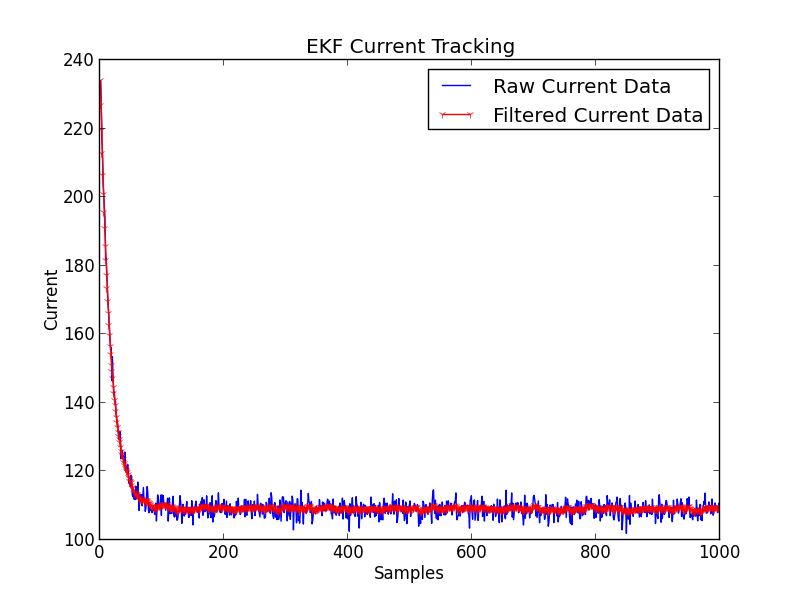
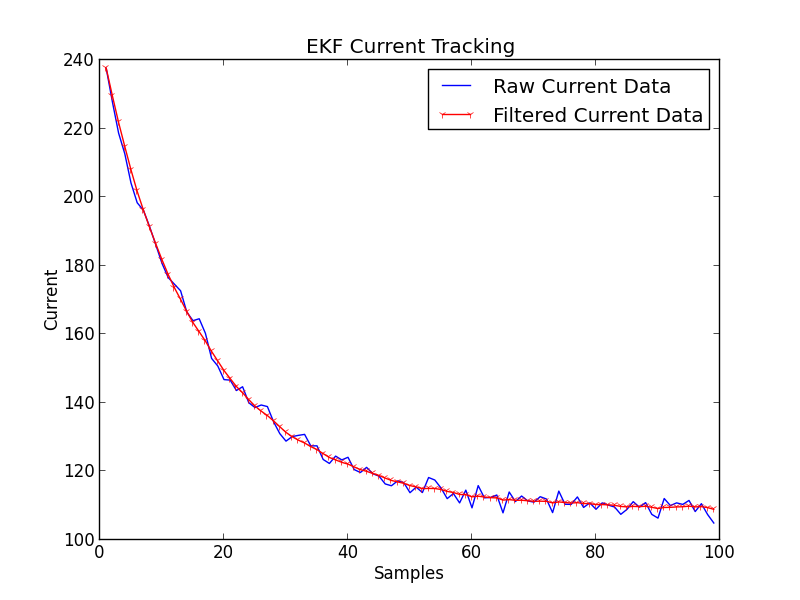
added tiny readme

diff --git a/sensors.py b/sensors.py
@@ -13,8 +13,6 @@ class Voltmeter():
 		"""
 		noise = np.random.normal(self.noiseMean,self.noiseSTD,1)
 		self.prevData = math.pow(self.prevData,1.01); #state transfer is xi = (xi-1)^1.01 
-		if(self.prevData > 100):
-			self.prevData = 10.0;
 		return self.prevData + noise[0]
 
 

diff --git a/ekf.py b/ekf.py
@@ -125,7 +125,7 @@ class ExtendedKalman():
 
 
 #variables governing the simulation
-numSamples = 1000
+numSamples = 100
 
 #our sensor simulators ... voltmeter and ammeter
 voltmeter = sensors.Voltmeter(0,3)
